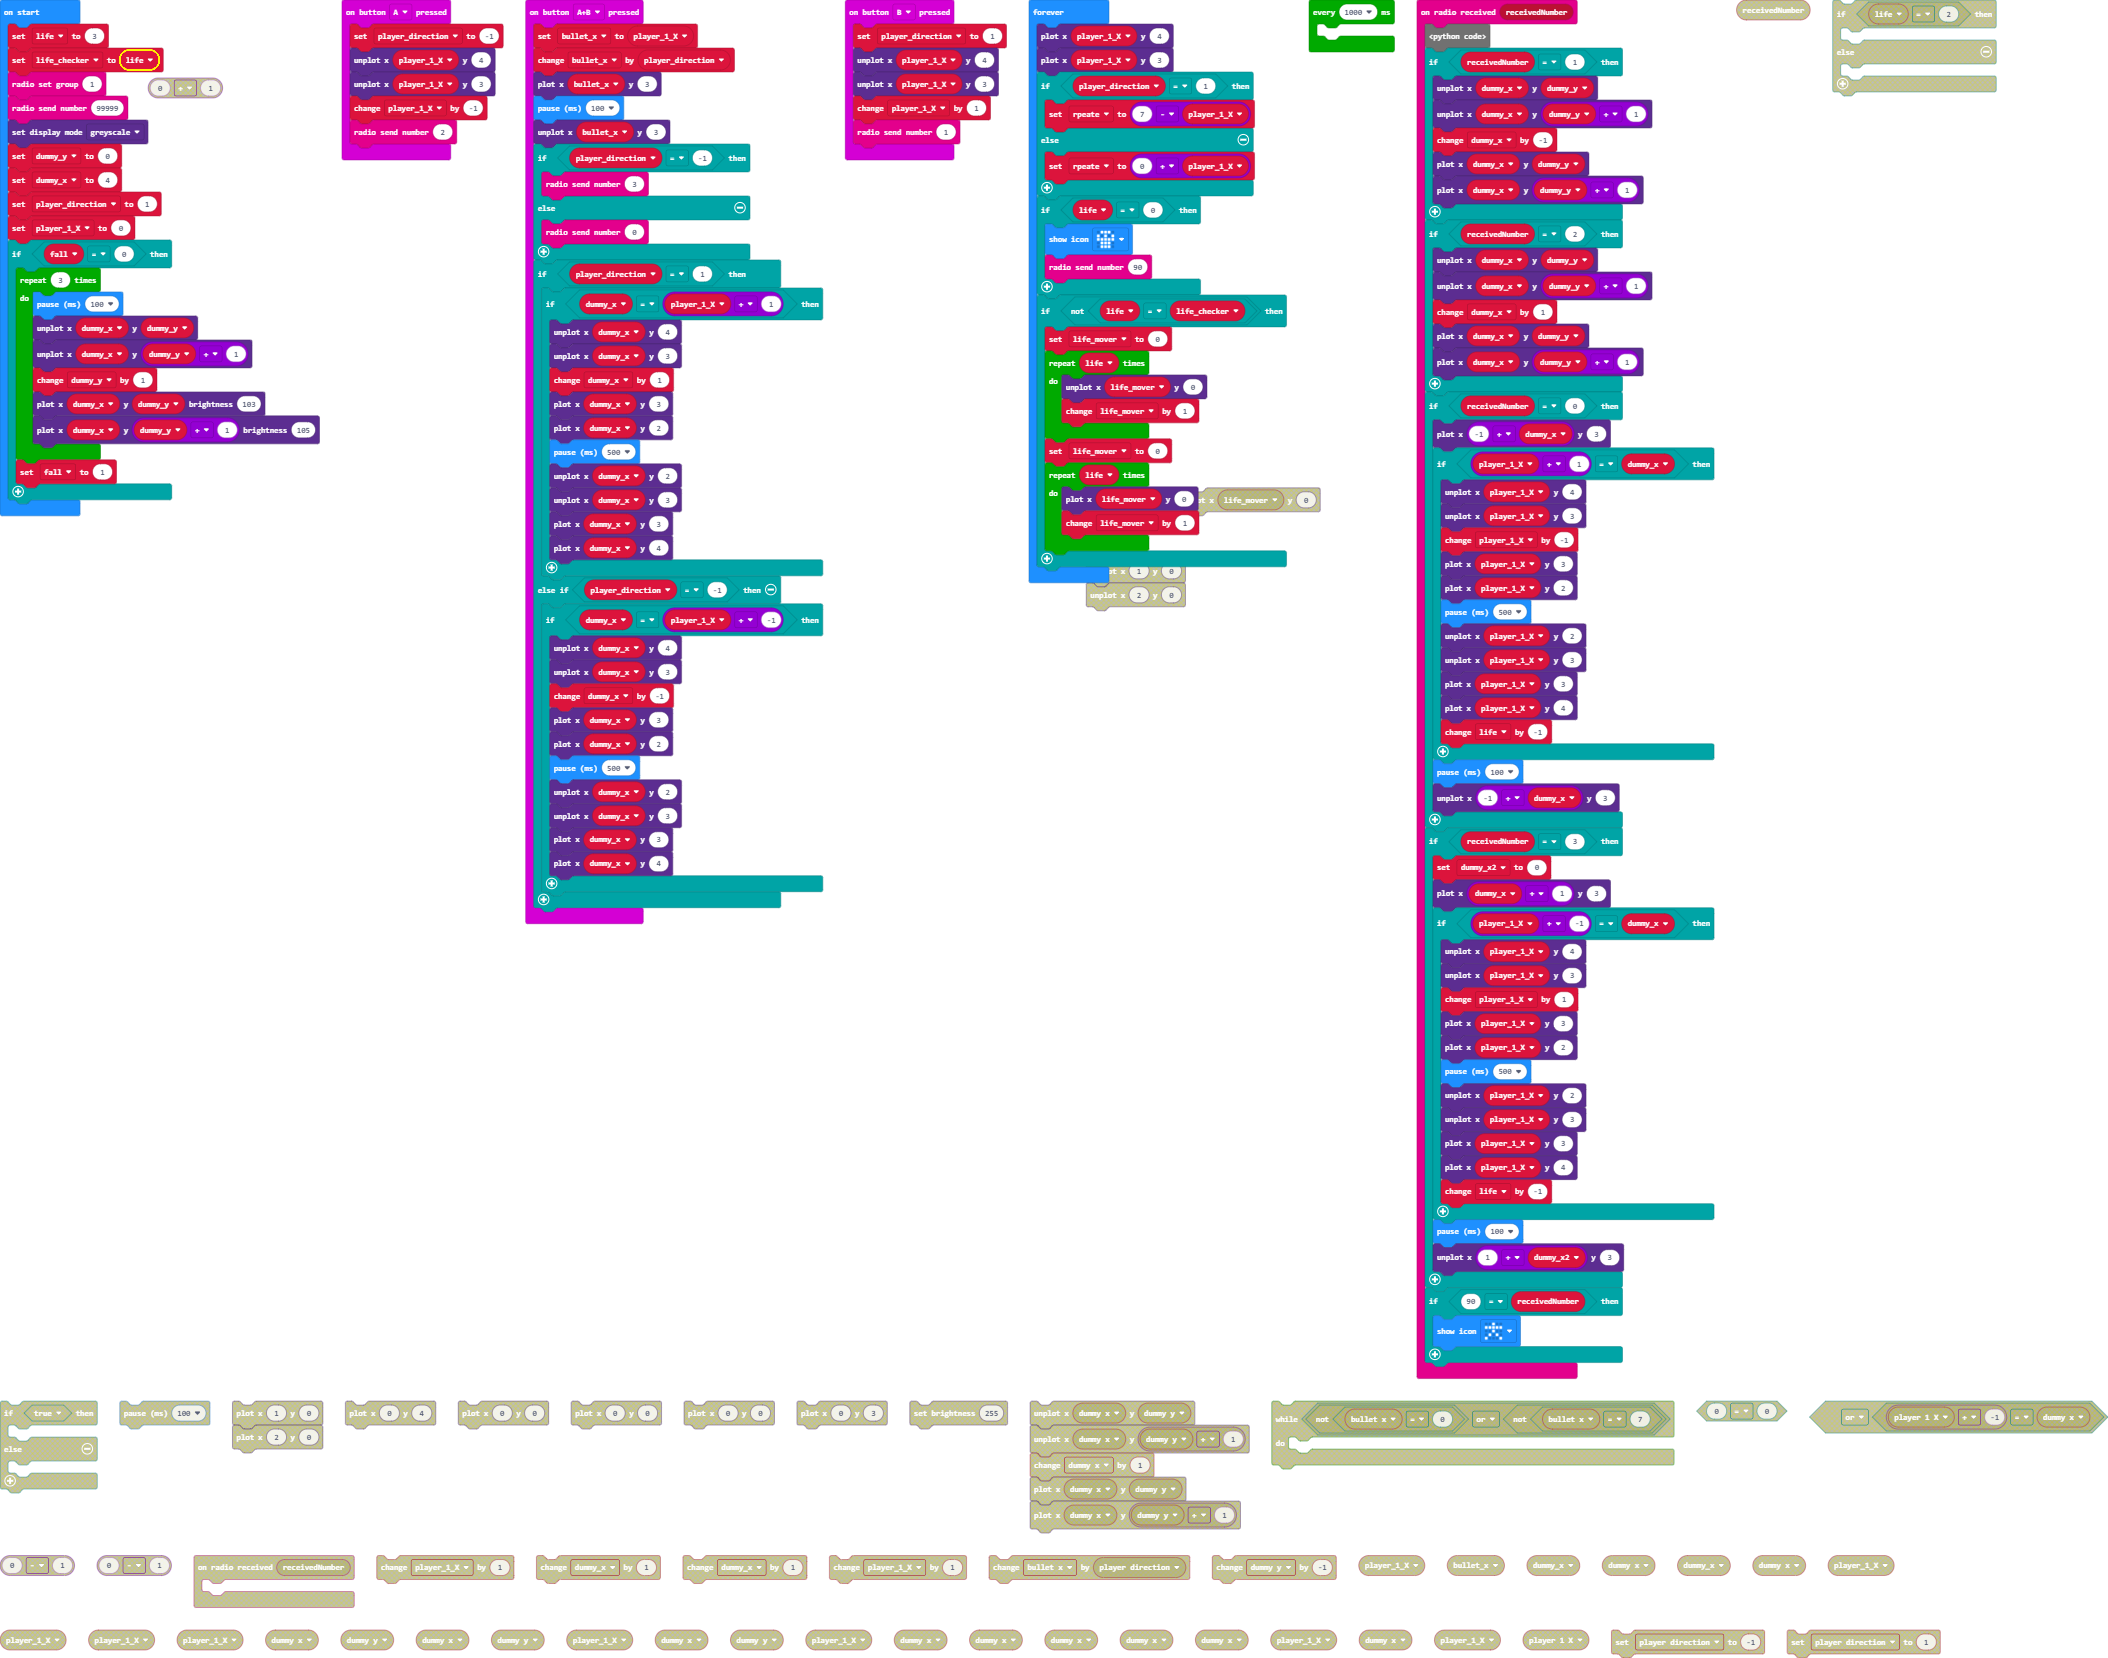
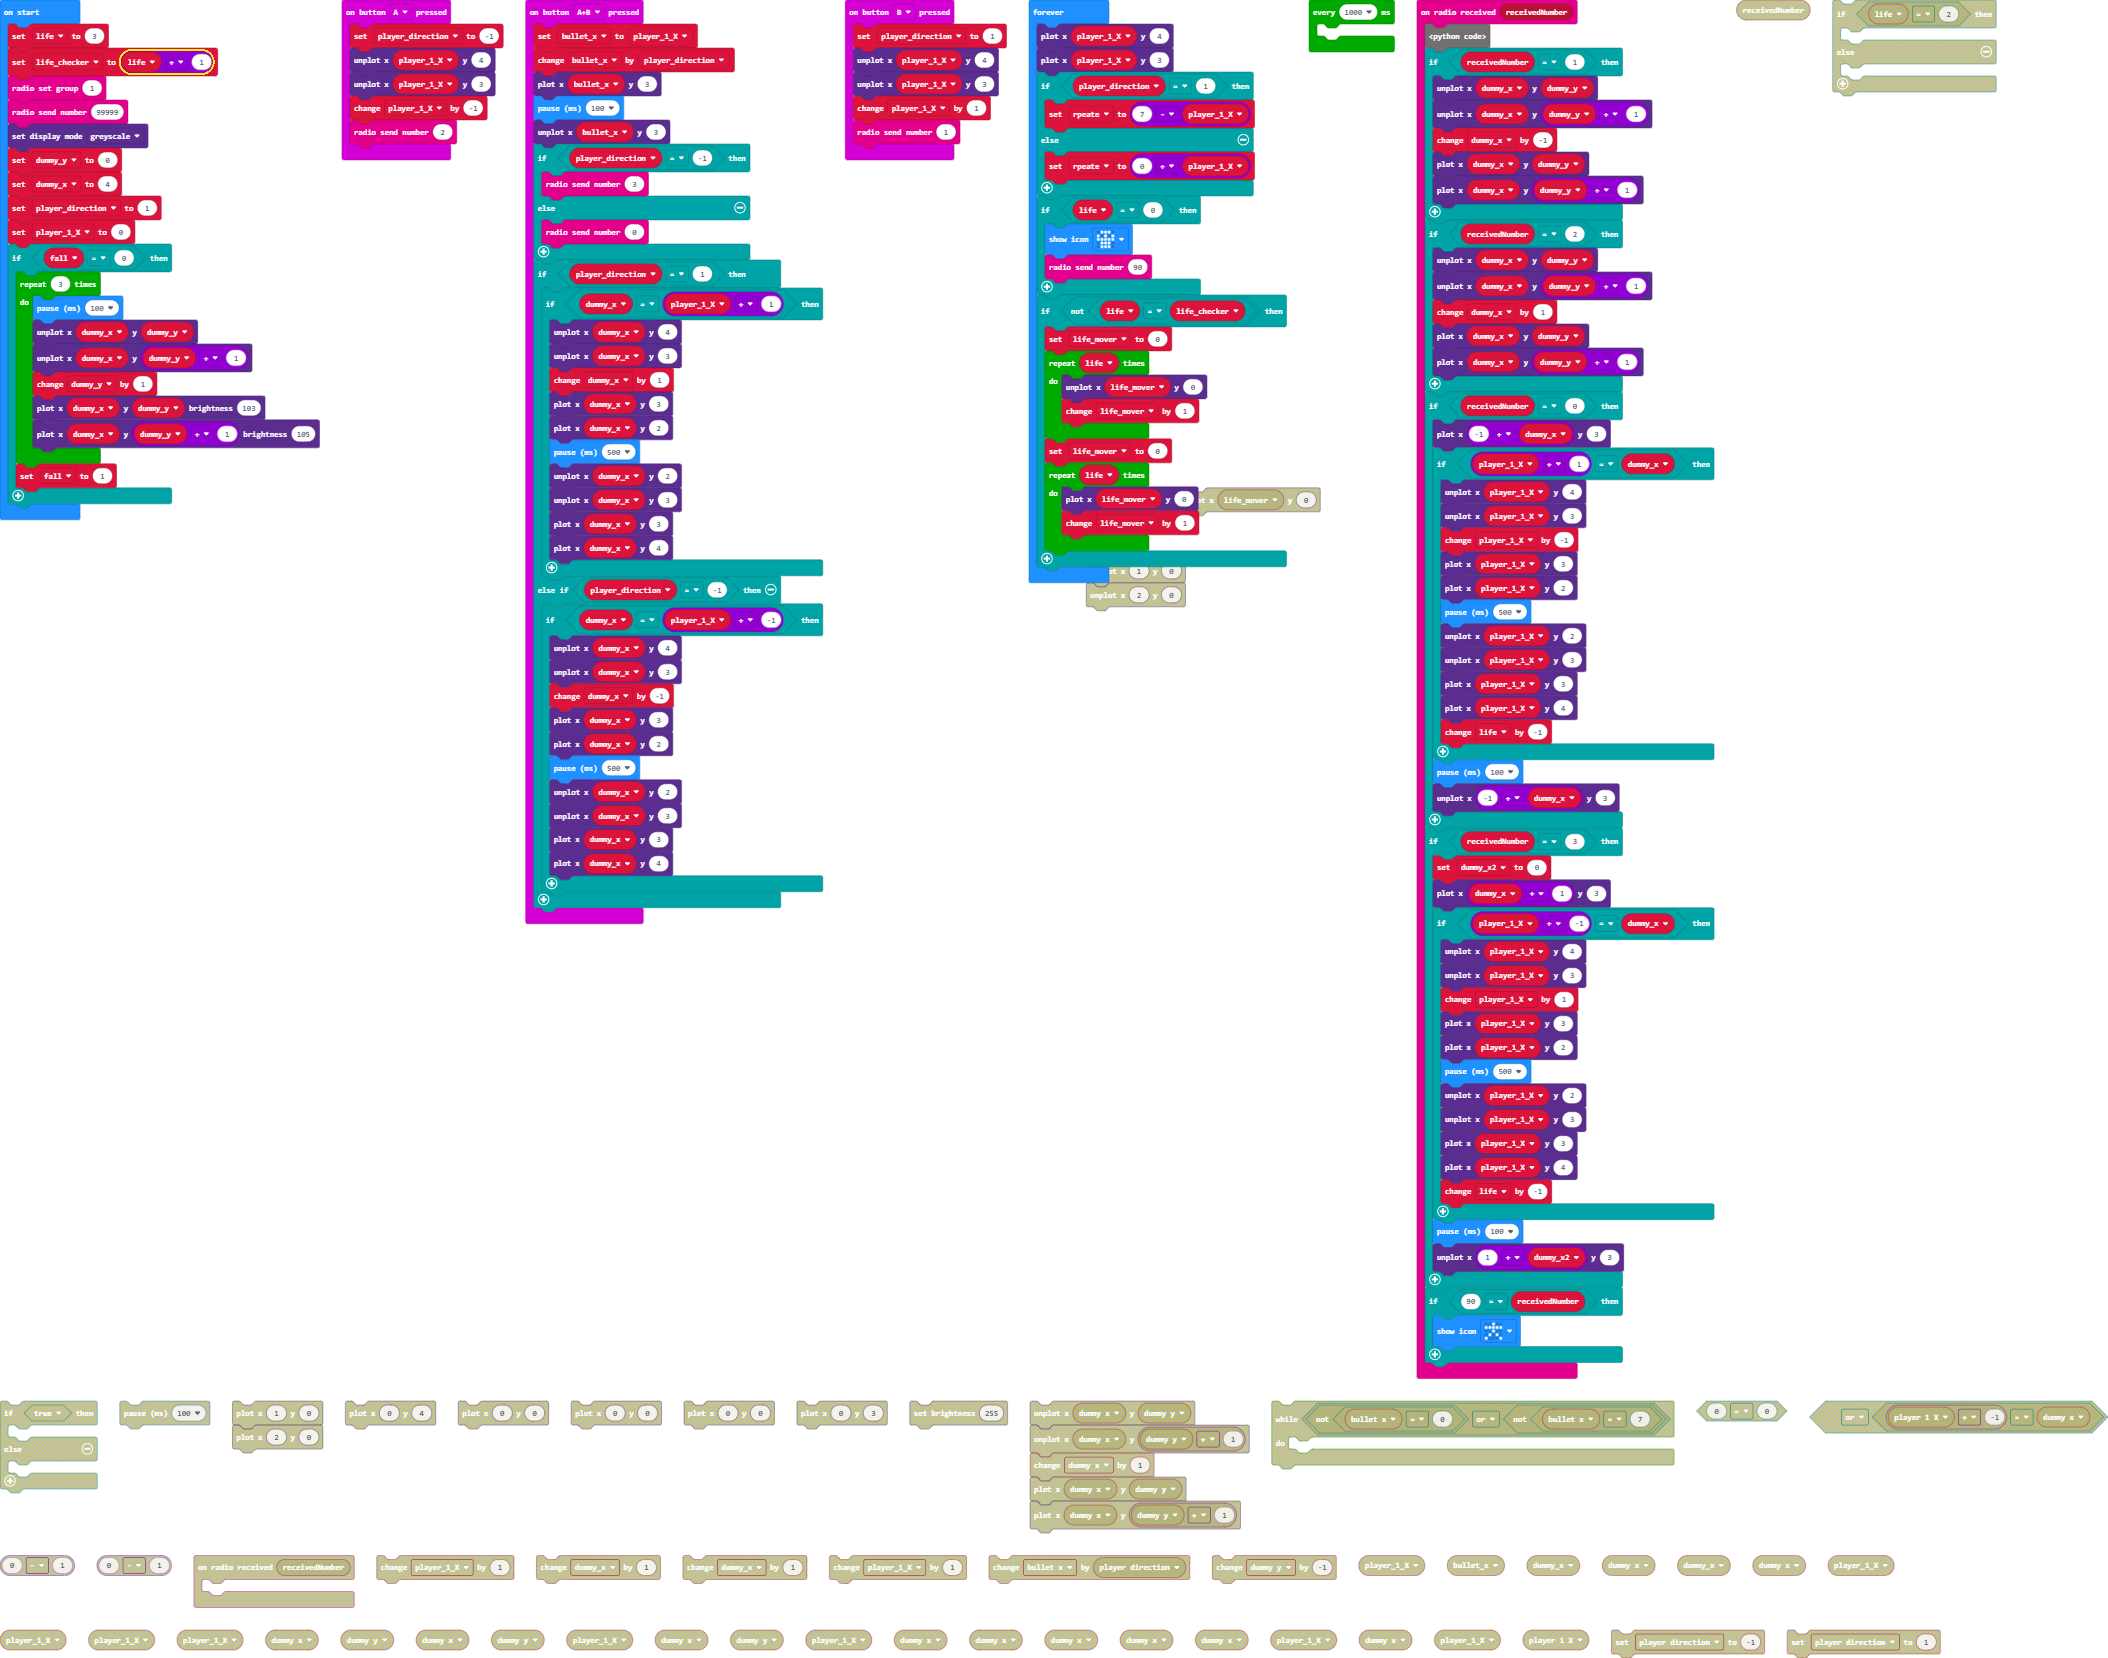
Update main.blocks, main.ts

Changed region(s): [[0.0, 0.0308, 0.1542, 0.3384]]

diff --git a/main.ts b/main.ts
@@ -117,7 +117,7 @@ let player_direction = 0
 let dummy_x = 0
 let dummy_y = 0
 let life = 3
-let life_checker = life
+let life_checker = life + 1
 radio.setGroup(1)
 radio.sendNumber(99999)
 led.setDisplayMode(DisplayMode.Greyscale)
